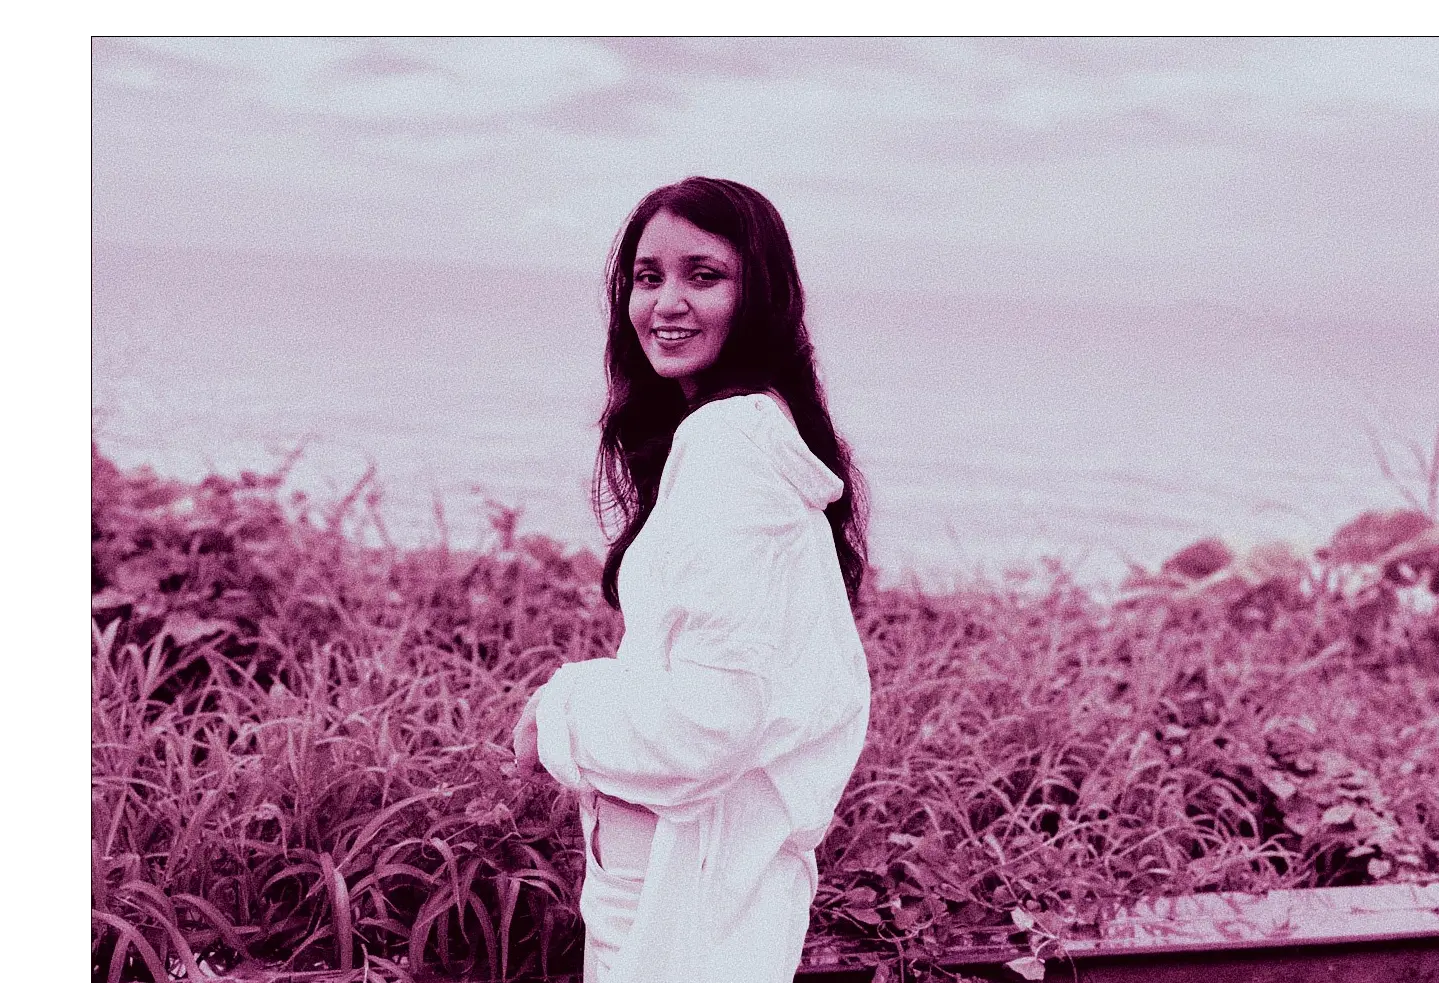
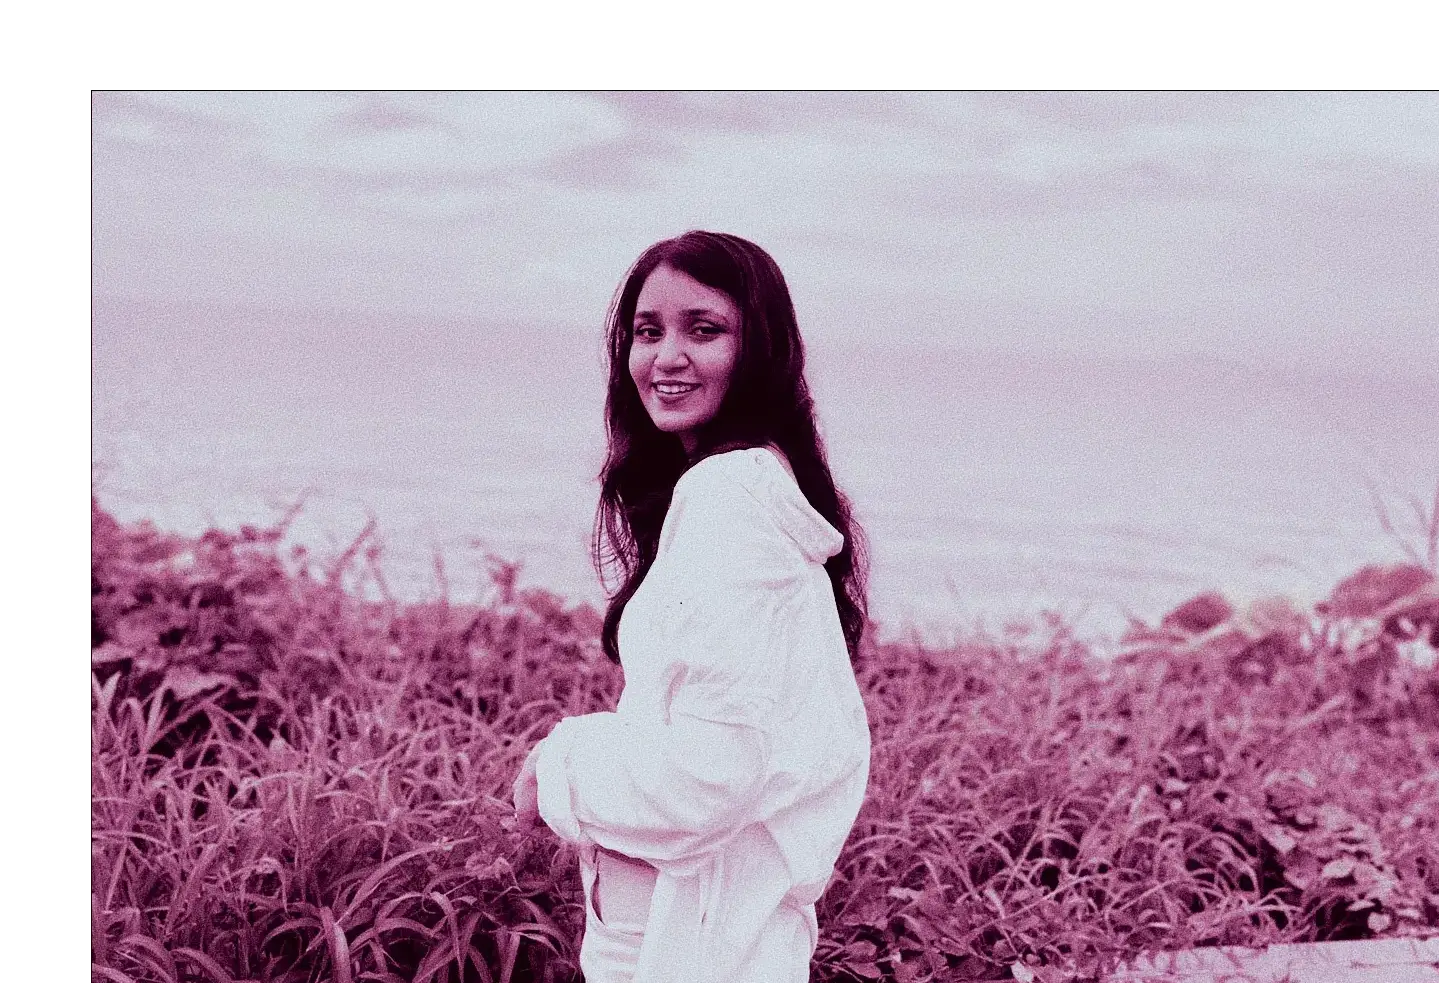
Made image size changes to fit on small screens

diff --git a/src/Portfolio.js b/src/Portfolio.js
@@ -383,7 +383,7 @@ function Portfolio() {
     });
 
     trans_intro_skills.to(mask,
-      { scale: () => Math.max(window.innerWidth / Constants.svgMaskWidth, window.innerHeight / Constants.svgMaskHeight) });
+      { scale: () => Math.max(window.innerWidth / Constants.svgMaskWidth, window.innerHeight / Utils.svgHeight()) });
 
     const trans_skills_exp = gsap.timeline({
       scrollTrigger: {
@@ -506,7 +506,7 @@ function Portfolio() {
         }
 
 
-        <div ref={reference} width={Constants.svgMaskWidth} height={Constants.svgMaskHeight}></div>
+        <div ref={reference} width={Constants.svgMaskWidth} height={Utils.svgHeight()}></div>
         {showIntro && <div className="fixed bottom-0 left-0 right-0 flex items-center z-10 justify-center"
           style={{ marginBottom: photoMarginBottom }}>
           <div className='px-2'>
@@ -551,10 +551,10 @@ function Portfolio() {
               <mask id="myMask" className="myMask">
                 <animated.rect ref={imageContainerRef}
                   x={(window.innerWidth - Constants.svgMaskWidth) / 2}
-                  y={(window.innerHeight - Constants.svgMaskHeight) / 2}
+                  y={(window.innerHeight - Utils.svgHeight()) / 2}
                   className="rect"
                   width={Constants.svgMaskWidth}
-                  height={Constants.svgMaskHeight}
+                  height={Utils.svgHeight()}
                   fill="white"
                   style={{
                     ...springProps
@@ -599,7 +599,7 @@ function Portfolio() {
             </svg>
           </div>
 
-          {/* <div className='z-50' style={{ display: 'inline-block', marginBottom: (window.innerHeight - Constants.svgMaskHeight) / 3 }}>
+          {/* <div className='z-50' style={{ display: 'inline-block', marginBottom: (window.innerHeight - Utils.svgHeight()) / 3 }}>
               <button
                 type="button"
                 onClick={scrollToTop}

diff --git a/src/App.js b/src/App.js
@@ -2,6 +2,7 @@ import React, { useState, useEffect } from 'react';
 
 import Loading from './components/Loading';
 import Portfolio from './Portfolio';
+import ReloadOnResize from './utils/ReloadOnResize';
 
 const App = () => {
   const [loading, setLoading] = useState(true);
@@ -12,6 +13,7 @@ const App = () => {
 
   return (
     <>
+      <ReloadOnResize />
       {loading ? (
         <Loading stopLoading={stopLoading} />
       ) : (

diff --git a/src/utils/ReloadOnResize.js b/src/utils/ReloadOnResize.js
@@ -1,0 +1,19 @@
+import React, { useEffect } from 'react';
+
+function ReloadOnResize() {
+  useEffect(() => {
+    const handleResize = () => {
+      window.location.reload();
+    };
+
+    window.addEventListener('resize', handleResize);
+
+    return () => {
+      window.removeEventListener('resize', handleResize);
+    };
+  }, []);
+
+  return;
+}
+
+export default ReloadOnResize;

diff --git a/src/utils/Utils.js b/src/utils/Utils.js
@@ -3,6 +3,15 @@ export const handleDownload = () => {
     window.open(link, '_blank');
 };
 
+export const svgWidth = () => {
+    return 350;
+};
+
+export const svgHeight = () => {
+    return Math.min(window.innerHeight/2, 350);
+    //return 350;
+};
+
 export const getSkylineStart = () => {
     return 100 + 0.395257 * (window.innerHeight - 700);
 };
